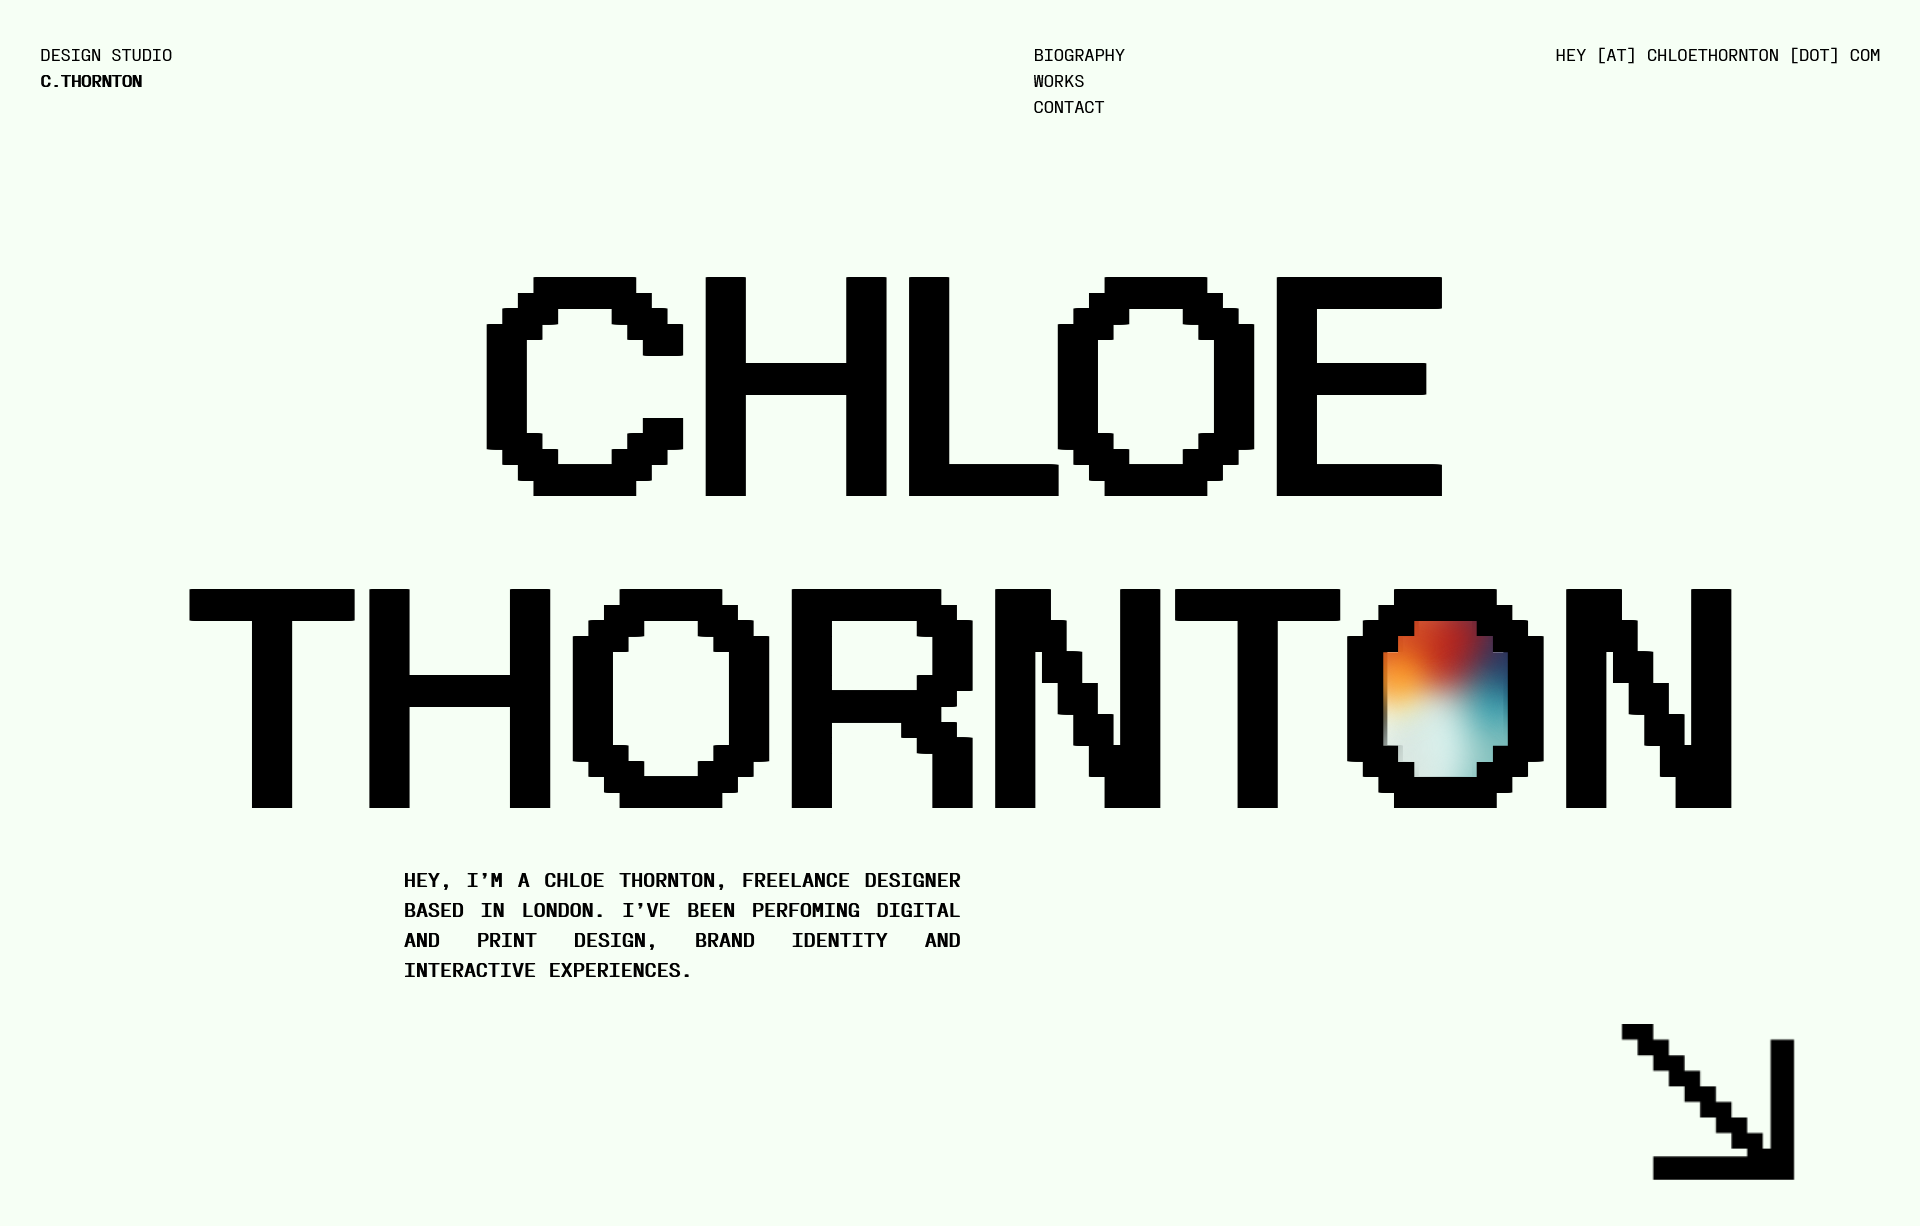
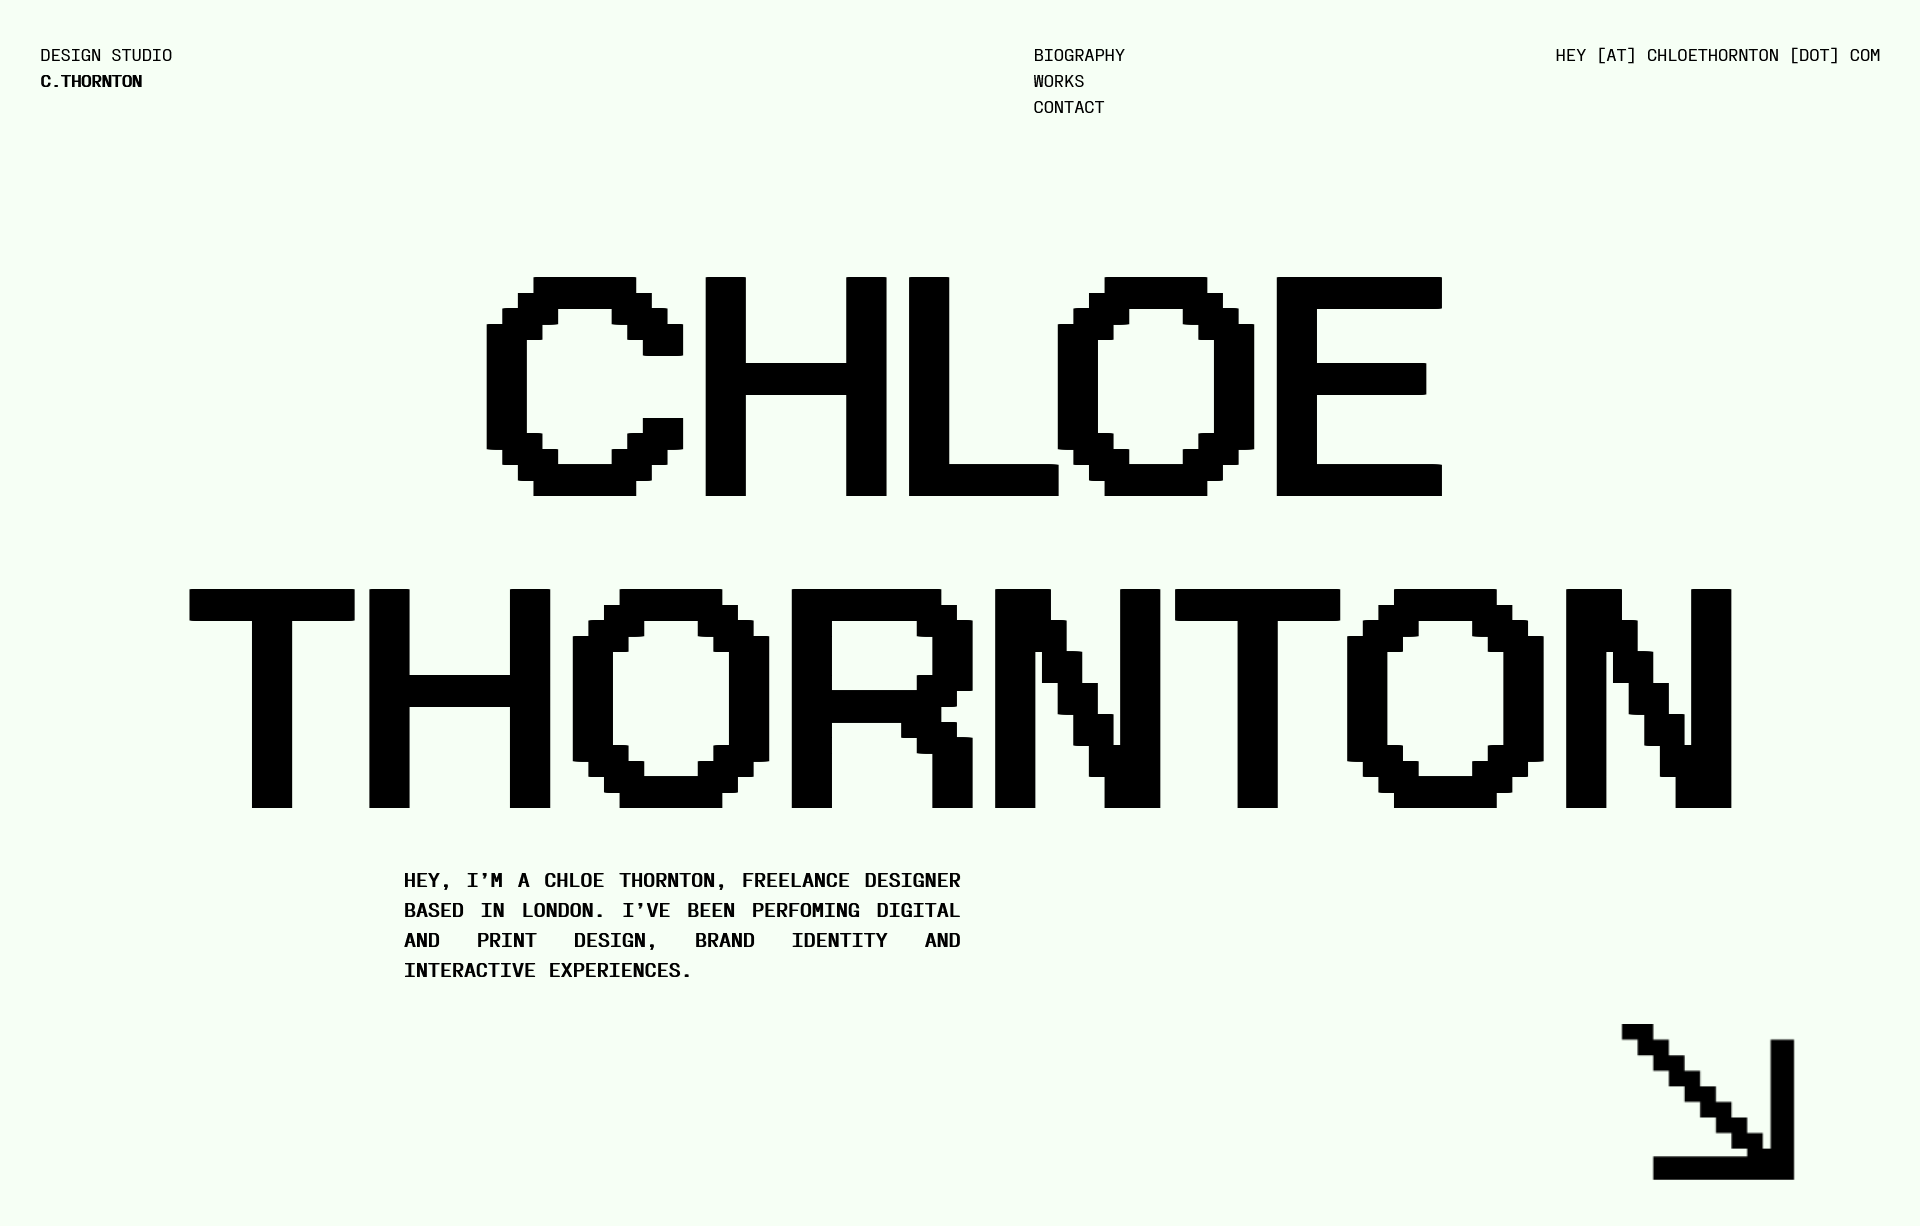
remove gradient from markup and styles

Changed region(s): [[0.7188, 0.4959, 0.8125, 0.6509]]

diff --git a/index.html b/index.html
@@ -27,14 +27,7 @@
     <main class="grid">
       <div class="name">
         <p>Chloe</p>
-        <p>
-          Thornton
-          <img
-            class="bg"
-            src="./assets/images/O Gradient.png"
-            alt="background color"
-          />
-        </p>
+        <p>Thornton</p>
       </div>
       <div class="intro__text">
         <p>

diff --git a/style.css b/style.css
@@ -191,17 +191,6 @@ main .arrow {
     z-index: 1;
   }
 
-  .name p:nth-child(2) {
-    position: relative;
-  }
-
-  .bg {
-    display: inline-block;
-    position: absolute;
-    top: 5.5rem;
-    right: 11rem;
-  }
-
   main {
     max-width: 1400px;
     margin: 0 auto;

diff --git a/README.md b/README.md
@@ -1,6 +1,6 @@
 # Modern Layouts - 07/50 (#Made-In-CSS-Grid)
 
-![Screenshot](/assets/images/layout-07-screenshot.png)
+![Screenshot](/assets/images/Layout-07-screenshot.png)
 
 _50 days challenge on Modern Layouts using CSS Grid._
 
